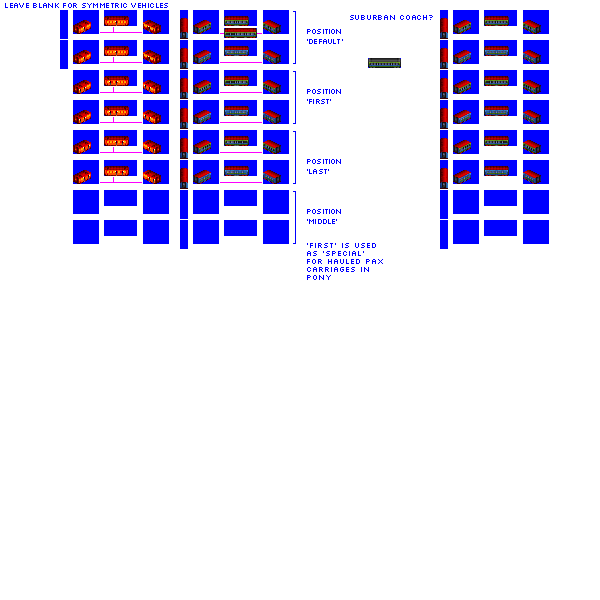
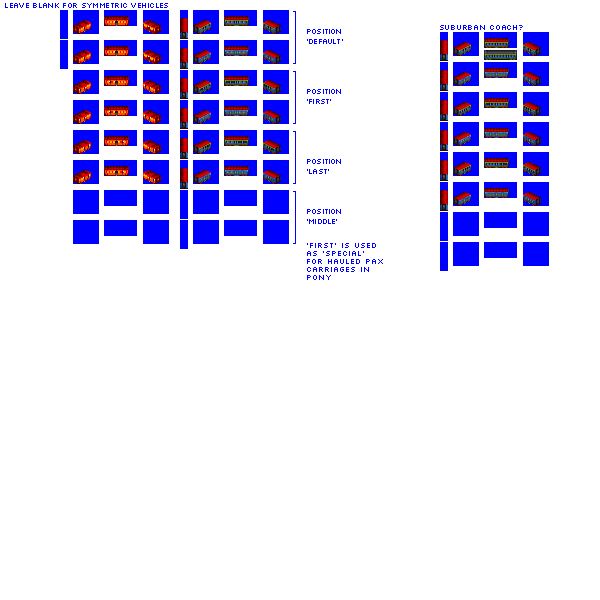
Change: sprites complete for gen 4B and 4C pony NG pax cars

diff --git a/src/vehicles/pony/passenger_cars_pony.py b/src/vehicles/pony/passenger_cars_pony.py
@@ -74,7 +74,7 @@ def main(roster_id, **kwargs):
         gen=4,
         subtype="C",
         base_track_type_name="NG",
-        sprites_complete=False,
+        sprites_complete=True,
     )
 
     consist.add_unit(type=PaxCar, chassis="4_axle_ng_32px")
